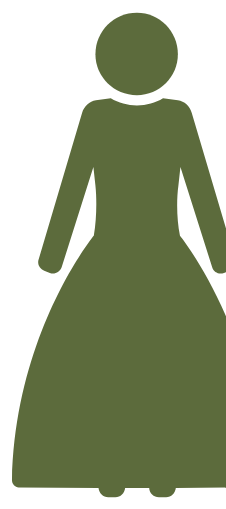
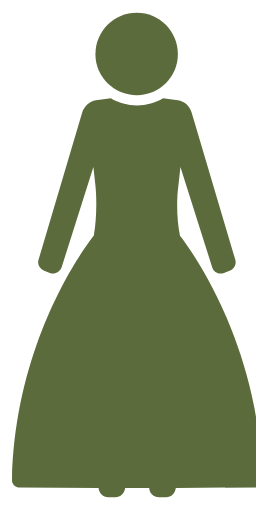
Vestimenta: recorte limpio de siluetas y credito minimo

diff --git a/index.html b/index.html
@@ -189,7 +189,7 @@ body.locked .hero-bg img{animation:none !important}
 @keyframes dcFloat{from{transform:translateY(0)}to{transform:translateY(-7px)}}
 .dc-figures svg{width:104px;height:144px;color:var(--sage-deep-hex)}
 .dc-figures img.dc-img{width:104px;height:auto}
-.dc-credit{margin:14px 0 0;font-size:9px;letter-spacing:.22em;text-transform:uppercase;color:var(--muted-hex);opacity:.85}
+.dc-credit{margin:10px 0 0;font-size:7px;letter-spacing:.14em;text-transform:uppercase;color:var(--muted-hex);opacity:.45}
 .dc-figures figcaption{margin-top:10px;font-size:10px;letter-spacing:.24em;text-transform:uppercase;color:var(--muted-hex);line-height:2}
 .dc-hint{margin:18px 0 0;font-size:10.5px;letter-spacing:.26em;text-transform:uppercase;color:var(--muted-hex)}
 .dc-dots{display:flex;justify-content:center;gap:12px;margin-top:12px}
